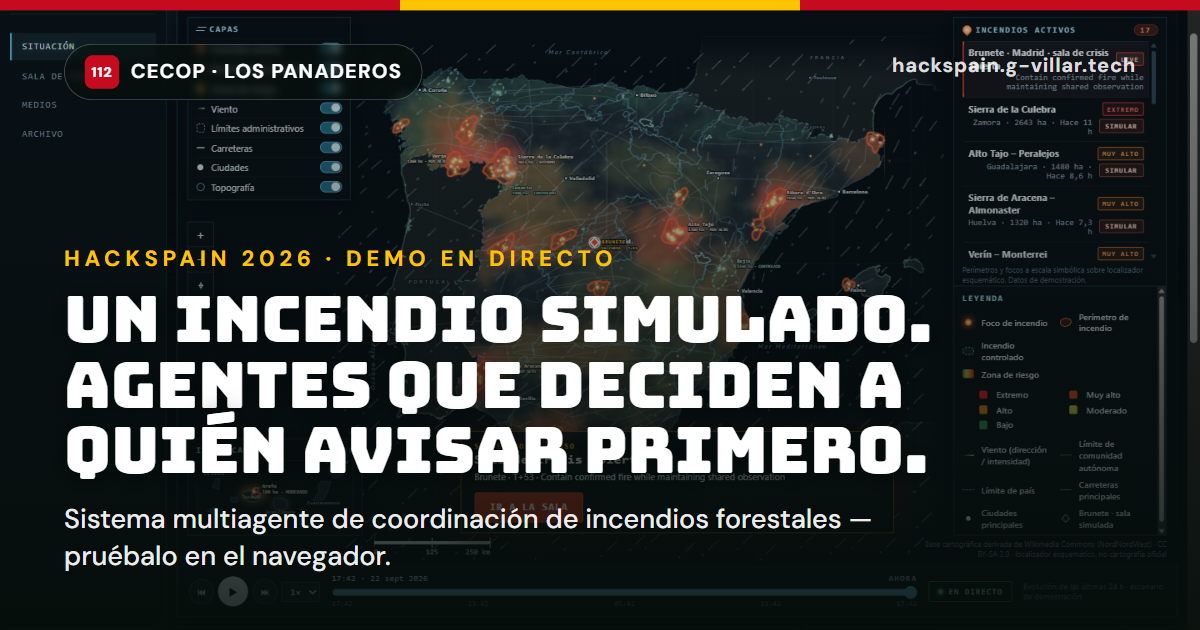
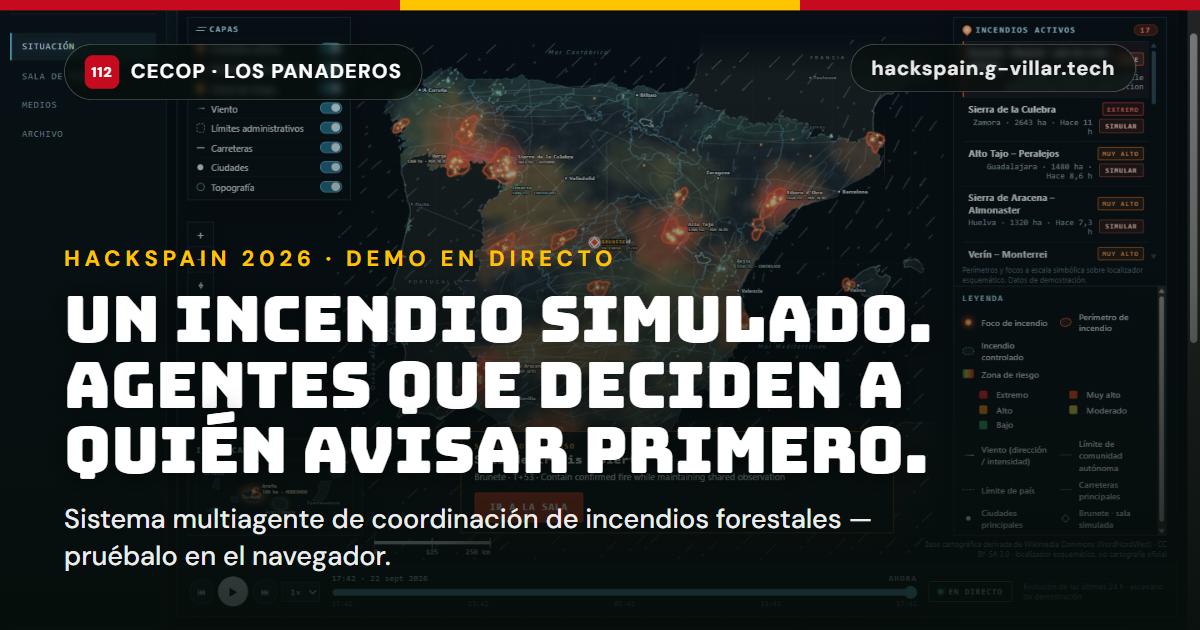
Give the OG card URL the same glass pill as the badge
Generated with [Devin](https://devin.ai)

Changed region(s): [[0.7092, 0.0603, 0.9558, 0.1508]]

diff --git a/og-card.html b/og-card.html
@@ -22,7 +22,7 @@
   .badge{position:absolute;top:44px;left:64px;display:flex;align-items:center;gap:12px;background:rgba(6,14,10,.55);border:1px solid rgba(255,255,255,.25);border-radius:999px;padding:10px 20px;backdrop-filter:blur(4px)}
   .badge .dot{width:34px;height:34px;border-radius:8px;background:#c60b1e;color:#fff;display:flex;align-items:center;justify-content:center;font-weight:900;font-size:14px}
   .badge span{font-weight:700;font-size:20px;letter-spacing:.06em;color:#fff}
-  .url{position:absolute;top:52px;right:64px;font-weight:700;font-size:20px;color:rgba(255,255,255,.85);letter-spacing:.04em}
+  .url{position:absolute;top:44px;right:64px;font-weight:700;font-size:20px;color:rgba(255,255,255,.9);letter-spacing:.04em;background:rgba(6,14,10,.55);border:1px solid rgba(255,255,255,.25);border-radius:999px;padding:10px 20px;backdrop-filter:blur(4px)}
 </style>
 </head>
 <body>
